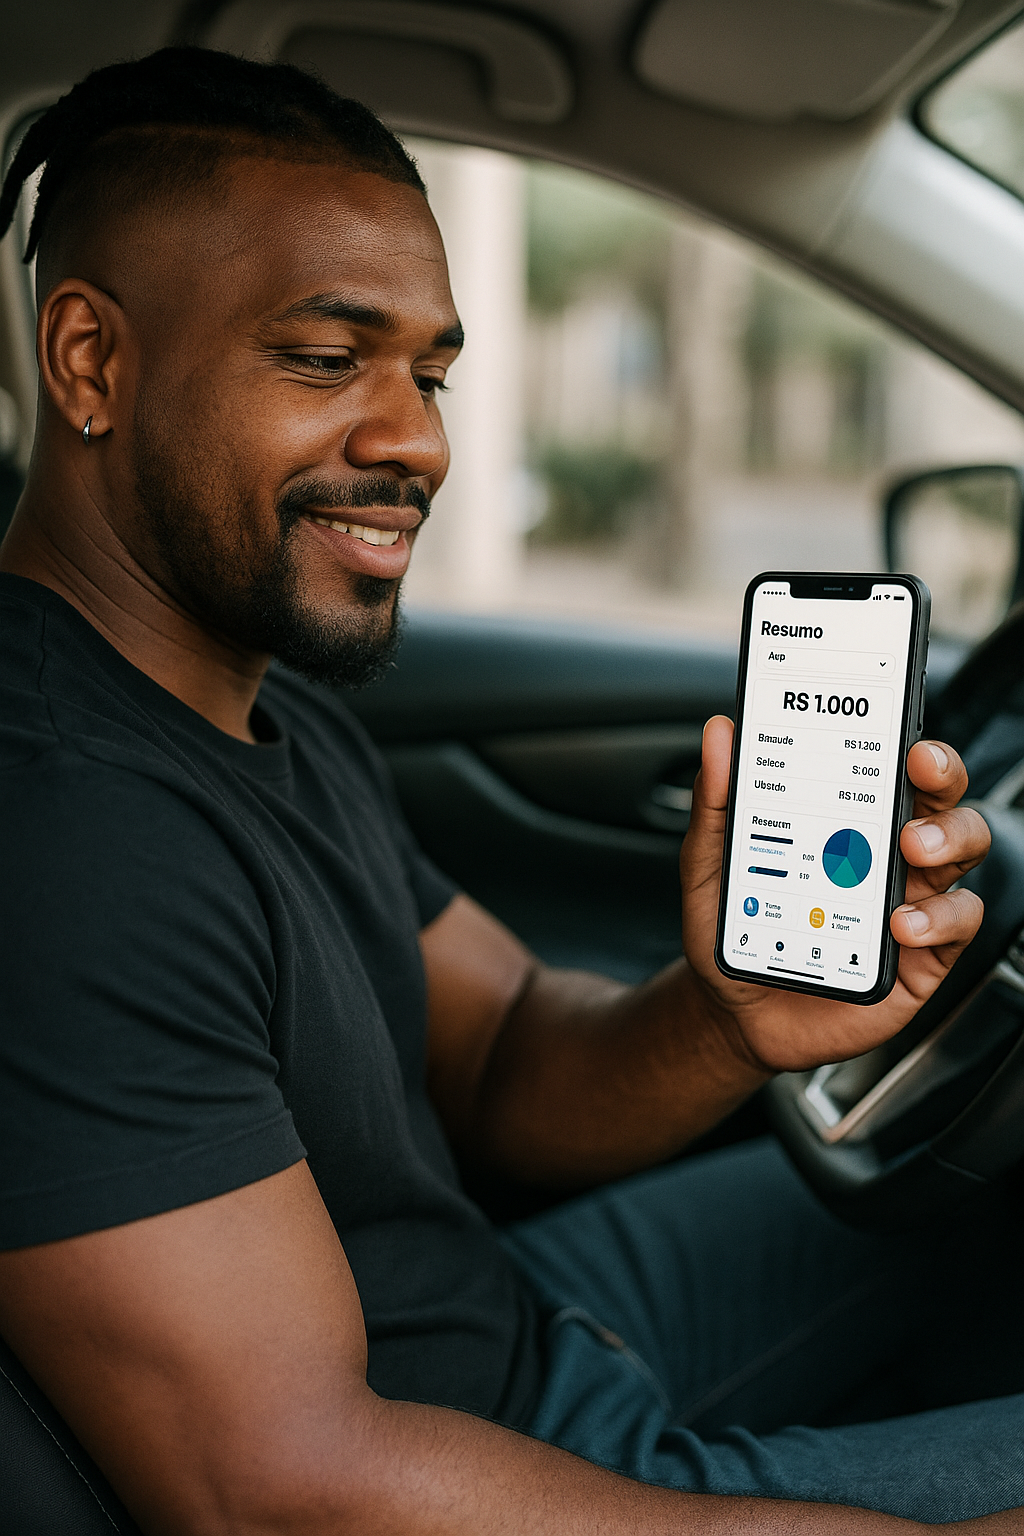
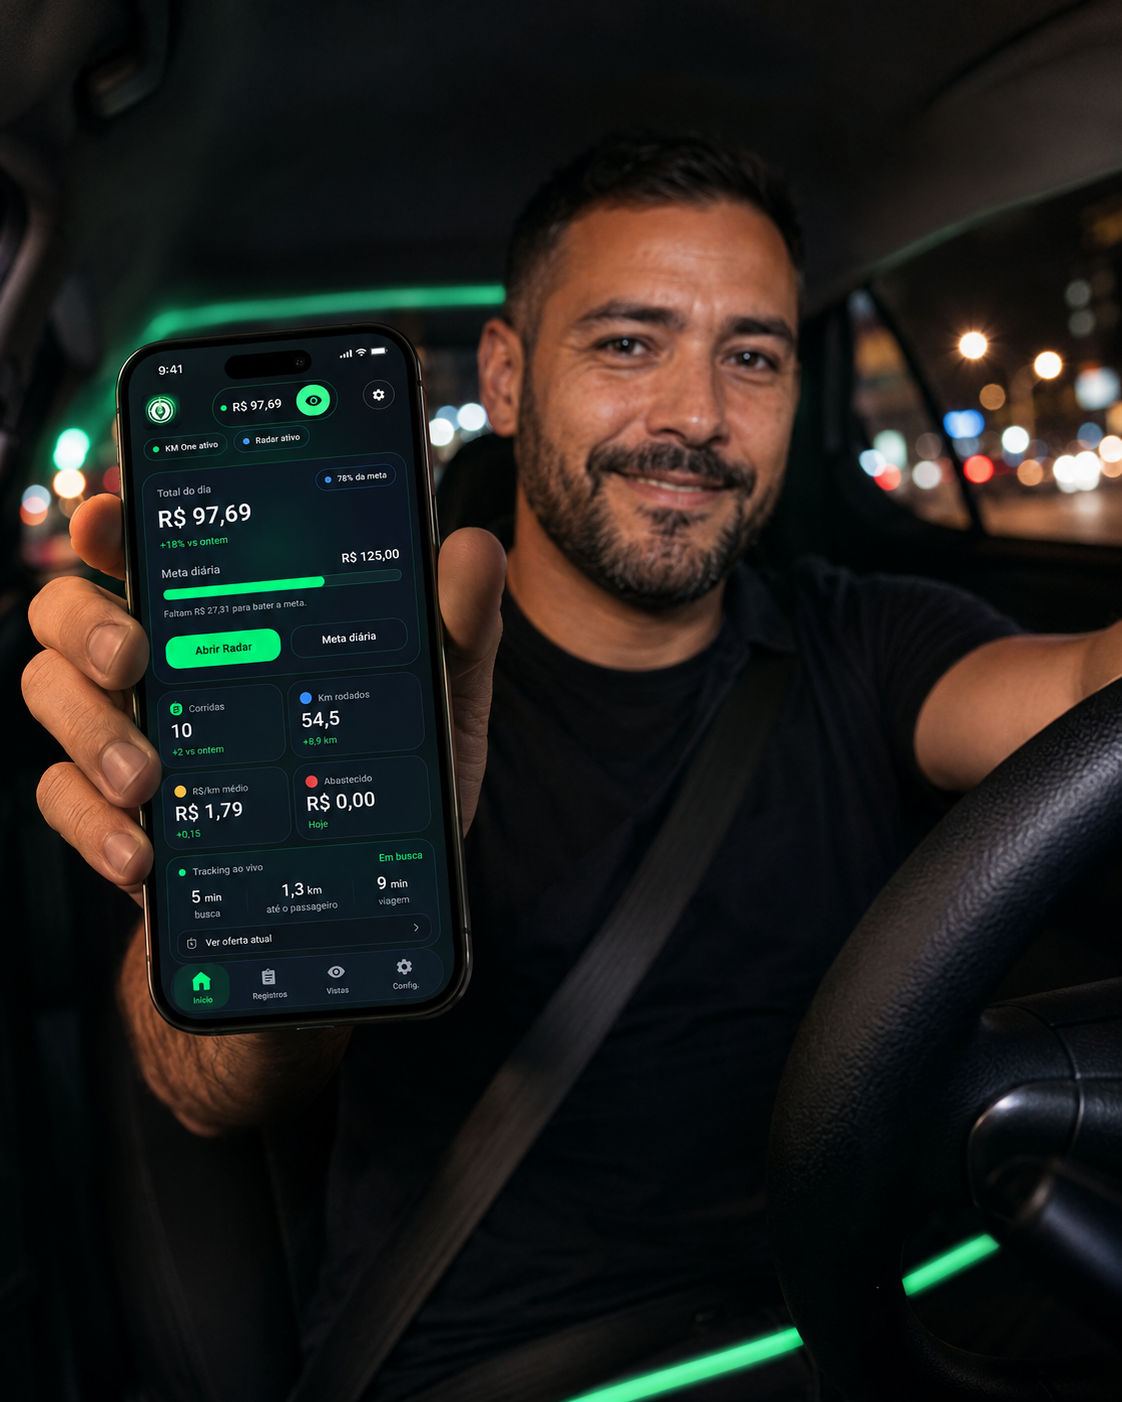
feat: new layout

diff --git a/web/src/components/Layout.tsx b/web/src/components/Layout.tsx
@@ -1,12 +1,12 @@
+import { useState, type ReactNode } from "react";
 import { Outlet } from "react-router";
 
 import logo from "../assets/kmone.png";
-import { useState, type ReactNode } from "react";
-import { PoliticaPrivacidade } from "./modals/PoliticaPrivacidade";
-import { Modal } from "./modals/Modal";
-import { TermosUso } from "./modals/TermoDeUso";
-import { InformacoesLegais } from "./modals/InformacoesLegais";
 import { Contato } from "./modals/Contato";
+import { InformacoesLegais } from "./modals/InformacoesLegais";
+import { Modal } from "./modals/Modal";
+import { PoliticaPrivacidade } from "./modals/PoliticaPrivacidade";
+import { TermosUso } from "./modals/TermoDeUso";
 
 export function Layout() {
   const [modalContent, setModalContent] = useState<ReactNode>(null);
@@ -31,47 +31,61 @@ export function Layout() {
   }
 
   return (
-    <div className="w-screen min-h-screen bg-[var(--color-bg)] flex flex-col items-center text-[var(--color-default)]">
-      <header className="w-full max-w-screen-lg px-4 py-6 flex items-center gap-3">
-        <img src={logo} alt="KM One logo" className="w-25  h-20" />
+    <div className="min-h-screen w-full overflow-x-hidden bg-[var(--bg-main)] text-[var(--text-main)]">
+      <header className="sticky top-0 z-40 w-full border-b border-white/8 bg-[#020B0F]/82 backdrop-blur-xl">
+        <div className="mx-auto flex max-w-7xl items-center justify-between gap-4 px-4 py-4 sm:px-6 lg:px-8">
+          <a href="/" className="flex items-center gap-3">
+            <img src={logo} alt="KM One logo" className="h-14 w-auto" />
 
-        <div className="flex flex-col leading-tight">
-          <span className="text-xl font-bold tracking-wide">KM ONE</span>
-          <span className="text-sm text-gray-500">
-            Trevvos · Com você a cada KM
-          </span>
+            <div className="flex flex-col leading-tight">
+              <span className="text-lg font-black tracking-wide text-white">
+                KM ONE
+              </span>
+              <span className="text-xs font-semibold text-[var(--text-muted)] sm:text-sm">
+                Trevvos · Com você a cada KM
+              </span>
+            </div>
+          </a>
+
+          <a
+            href="#lista-vip"
+            className="hidden rounded-full border border-[var(--border-soft)] bg-[var(--green-main)]/10 px-5 py-3 text-sm font-black text-[var(--green-main)] transition hover:bg-[var(--green-main)] hover:text-[#02100A] sm:inline-flex"
+          >
+            Lista VIP
+          </a>
         </div>
       </header>
 
-      <main className="w-full max-w-screen-lg px-4 flex-1">
+      <main className="w-full">
         <Outlet />
       </main>
-      <footer className="w-full bg-gray-900 py-8 text-gray-300">
-        <div className="max-w-screen-lg mx-auto px-4 text-center space-y-4">
-          <p className="text-sm">
+
+      <footer className="w-full border-t border-white/10 bg-[#02080B] py-10 text-[var(--text-muted)]">
+        <div className="mx-auto max-w-7xl space-y-5 px-4 text-center sm:px-6 lg:px-8">
+          <p className="text-sm leading-6">
             © {new Date().getFullYear()} KM One • Todos os direitos reservados
             <br />
             Um app do ecossistema TREVVOS
           </p>
-          <nav className="flex flex-col md:flex-row gap-4 justify-center text-sm">
+          <nav className="flex flex-col justify-center gap-4 text-sm md:flex-row">
             <button
               type="button"
               onClick={() => openModal("politica")}
-              className="hover:underline cursor-pointer"
+              className="cursor-pointer transition hover:text-[var(--green-main)]"
             >
-              Politica de Privacidade
+              Política de Privacidade
             </button>
             <button
               type="button"
               onClick={() => openModal("termos")}
-              className="hover:underline cursor-pointer"
+              className="cursor-pointer transition hover:text-[var(--green-main)]"
             >
               Termos de Uso
             </button>
             <button
               type="button"
               onClick={() => openModal("informacoeslegais")}
-              className="hover:underline cursor-pointer"
+              className="cursor-pointer transition hover:text-[var(--green-main)]"
             >
               Informações Legais
             </button>
@@ -79,7 +93,7 @@ export function Layout() {
             <button
               type="button"
               onClick={() => openModal("contato")}
-              className="hover:underline cursor-pointer"
+              className="cursor-pointer transition hover:text-[var(--green-main)]"
             >
               Contato
             </button>

diff --git a/web/src/main.css b/web/src/main.css
@@ -1,8 +1,57 @@
 @import "tailwindcss";
 
 @theme {
-  --color-bg: #edf6fa;
-  --primary: #16a34a;
-  --color-default: #103559;
-  --secundary: #ffc038;
+  --color-bg: #020b0f;
+  --primary: #20f27a;
+  --color-default: #ffffff;
+  --secundary: #06151c;
+}
+
+:root {
+  --bg-main: #020b0f;
+  --bg-section: #06151c;
+  --bg-card: #0b1a24;
+  --green-main: #20f27a;
+  --green-soft: #00c46a;
+  --green-dark: #063b2b;
+  --blue-soft: #4a90e2;
+  --yellow-soft: #f5c84c;
+  --red-soft: #ff4e5b;
+  --text-main: #ffffff;
+  --text-muted: #aeb8c2;
+  --border-soft: rgba(32, 242, 122, 0.22);
+  color: var(--text-main);
+  background: var(--bg-main);
+  font-synthesis: none;
+  text-rendering: optimizeLegibility;
+  -webkit-font-smoothing: antialiased;
+  -moz-osx-font-smoothing: grayscale;
+}
+
+html {
+  scroll-behavior: smooth;
+  background: var(--bg-main);
+}
+
+body {
+  min-width: 320px;
+  min-height: 100vh;
+  margin: 0;
+  background:
+    radial-gradient(circle at 50% -20%, rgba(32, 242, 122, 0.14), transparent 34rem),
+    var(--bg-main);
+}
+
+* {
+  box-sizing: border-box;
+}
+
+::selection {
+  background: rgba(32, 242, 122, 0.28);
+  color: #ffffff;
+}
+
+button,
+a {
+  -webkit-tap-highlight-color: transparent;
 }

diff --git a/web/src/components/modals/Modal.tsx b/web/src/components/modals/Modal.tsx
@@ -8,21 +8,23 @@ type ModalProps = {
 export function Modal({ children, onClose }: ModalProps) {
   return (
     <div
-      className="fixed inset-0 bg-black/50 flex items-center justify-center z-50"
+      className="fixed inset-0 z-50 flex items-center justify-center bg-black/75 px-4 py-6 backdrop-blur-sm"
       onClick={onClose}
     >
       <div
-        className="bg-white rounded-lg shadow-lg max-w-lg w-full relative p-6"
+        className="relative w-full max-w-2xl overflow-hidden rounded-[2rem] border border-[var(--border-soft)] bg-[radial-gradient(circle_at_top,rgba(32,242,122,0.12),transparent_34%),#081923] p-5 text-[var(--text-main)] shadow-[0_28px_90px_rgba(0,0,0,0.58)] sm:p-7"
         onClick={(e) => e.stopPropagation()}
       >
         <button
           onClick={onClose}
-          className="absolute top-3 right-3 text-gray-500 hover:text-gray-700"
+          className="absolute right-4 top-4 z-10 flex h-10 w-10 items-center justify-center rounded-full border border-white/10 bg-white/[0.04] text-[var(--text-muted)] transition hover:border-[var(--border-soft)] hover:bg-[var(--green-main)] hover:text-[#02100A]"
           aria-label="Fechar"
         >
-          <X className="w-6 h-6" />
+          <X className="h-5 w-5" />
         </button>
-        <div className="overflow-y-auto max-h-[70vh]">{children}</div>
+        <div className="max-h-[78vh] overflow-y-auto pr-2 text-[var(--text-muted)] [scrollbar-color:rgba(32,242,122,0.5)_rgba(255,255,255,0.08)] [&_a]:text-[var(--green-main)] [&_h2]:pr-10 [&_h2]:text-white [&_h3]:text-white [&_li]:leading-7 [&_p]:leading-7 [&_.text-gray-500]:text-[var(--text-muted)] [&_.underline]:text-[var(--green-main)]">
+          {children}
+        </div>
       </div>
     </div>
   );

diff --git a/web/src/components/modals/Contato.tsx b/web/src/components/modals/Contato.tsx
@@ -1,6 +1,6 @@
 export function Contato() {
   return (
-    <div className="p-4 space-y-4 text-left text-sm max-h-[70vh] overflow-y-auto">
+    <div className="space-y-4 text-left text-sm">
       <h2 className="text-2xl font-bold mb-4">Contato</h2>
 
       <p>
@@ -18,12 +18,12 @@ export function Contato() {
         <span className="underline">+55 (11) 94504-3408</span>
       </p>
 
-      <p className="text-xs text-gray-500 mt-6">
+      <p className="mt-6 text-xs text-[var(--text-muted)]">
         Horário de atendimento: segunda a sexta, das 9h às 18h (horário de
         Brasília).
       </p>
 
-      <p className="text-xs text-gray-500">
+      <p className="text-xs text-[var(--text-muted)]">
         Última atualização: {new Date().toLocaleDateString("pt-BR")}
       </p>
     </div>

diff --git a/web/src/components/modals/InformacoesLegais.tsx b/web/src/components/modals/InformacoesLegais.tsx
@@ -1,6 +1,6 @@
 export function InformacoesLegais() {
   return (
-    <div className="p-4 space-y-4 text-left text-sm max-h-[70vh] overflow-y-auto">
+    <div className="space-y-4 text-left text-sm">
       <h2 className="text-2xl font-bold mb-4">Informações Legais</h2>
 
       <p>
@@ -35,7 +35,7 @@ export function InformacoesLegais() {
         <span className="underline">[email redacted]</span>.
       </p>
 
-      <p className="text-xs text-gray-500 mt-6">
+      <p className="mt-6 text-xs text-[var(--text-muted)]">
         Última atualização: {new Date().toLocaleDateString("pt-BR")}
       </p>
     </div>

diff --git a/web/src/components/modals/PoliticaPrivacidade.tsx b/web/src/components/modals/PoliticaPrivacidade.tsx
@@ -1,6 +1,6 @@
 export function PoliticaPrivacidade() {
   return (
-    <div className="p-4 space-y-4 text-left text-sm max-h-[70vh] overflow-y-auto">
+    <div className="space-y-4 text-left text-sm">
       <h2 className="text-2xl font-bold mb-4">Política de Privacidade</h2>
 
       <p>
@@ -81,7 +81,7 @@ export function PoliticaPrivacidade() {
         <span className="underline">[email redacted]</span>.
       </p>
 
-      <p className="text-xs text-gray-500 mt-6">
+      <p className="mt-6 text-xs text-[var(--text-muted)]">
         Última atualização: {new Date().toLocaleDateString("pt-BR")}
       </p>
     </div>

diff --git a/web/src/components/modals/TermoDeUso.tsx b/web/src/components/modals/TermoDeUso.tsx
@@ -1,6 +1,6 @@
 export function TermosUso() {
   return (
-    <div className="p-4 space-y-4 text-left text-sm max-h-[70vh] overflow-y-auto">
+    <div className="space-y-4 text-left text-sm">
       <h2 className="text-2xl font-bold mb-4">Termos de Uso</h2>
 
       <p>
@@ -55,7 +55,7 @@ export function TermosUso() {
         <span className="underline">[email redacted]</span>.
       </p>
 
-      <p className="text-xs text-gray-500 mt-6">
+      <p className="mt-6 text-xs text-[var(--text-muted)]">
         Última atualização: {new Date().toLocaleDateString("pt-BR")}
       </p>
     </div>